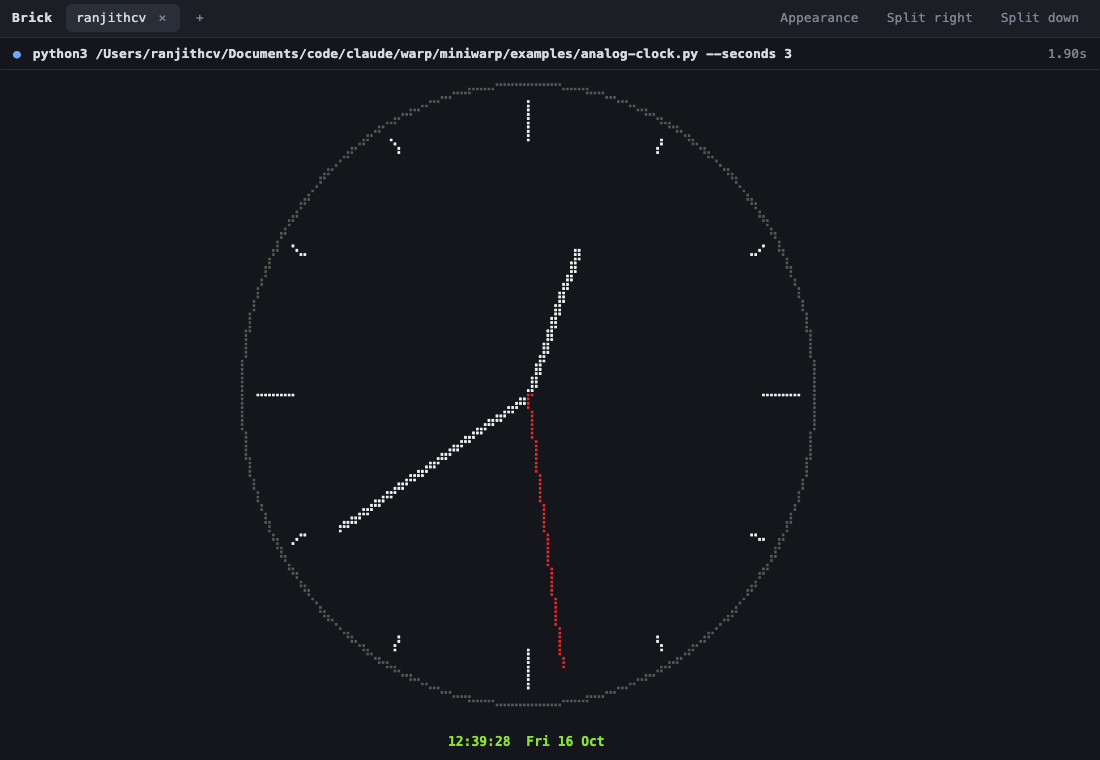
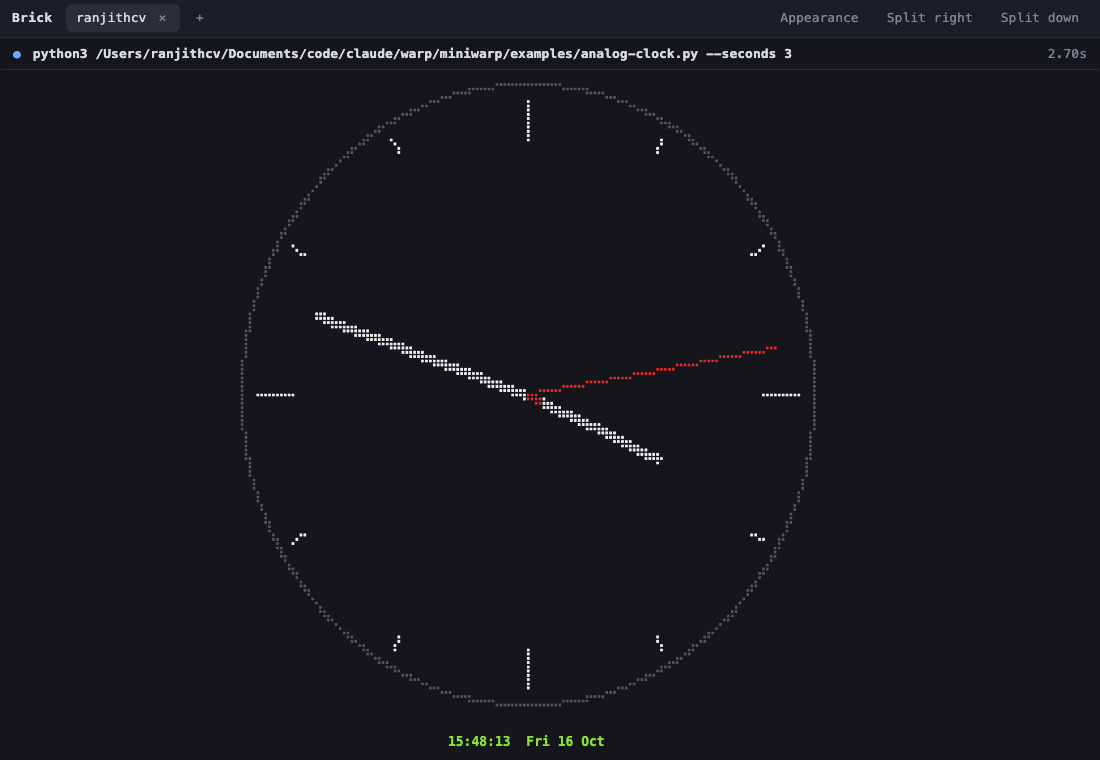
Make full-screen programs (vi, top) opaque over translucent panes
The overlay used the translucent pane background, so earlier blocks and the
wallpaper showed through. It now paints the pane's solid base colour. Test added.

Claude-Session: https://claude.ai/code/session_01Ut6PtFk7S6CzZVp874pcWK

diff --git a/test/glass.test.js b/test/glass.test.js
@@ -71,6 +71,17 @@ t('one opacity and one blur slider, five backgrounds, two scopes', async (page) 
   assert.equal(await page.locator('#scope button.on').innerText(), 'Whole tab');
 });
 
+t('a full-screen program (vi, top) is opaque: translucent glass never shows earlier blocks through it', async (page) => {
+  await openPanel(page);
+  await bg(page, 'blend'); await setRange(page, '#opacity', 30);
+  assert.ok(near(await tint(page, 0), 0.3));
+  await page.keyboard.press('Escape');
+  await page.keyboard.type(`printf '\\033[?1049h\\033[Hfullscreen'; sleep 3; printf '\\033[?1049l'`); await page.keyboard.press('Enter');
+  await page.waitForSelector('.block.overlay');
+  const alpha = await page.evaluate(() => { const c = getComputedStyle(document.querySelector('.block.overlay')).backgroundColor; const m = c.match(/[\d.]+/g); return m.length > 3 ? +m[3] : 1; });
+  assert.equal(alpha, 1, 'the overlay background is solid');
+});
+
 t('Blend: three colours, opacity and blur apply to every pane; Solid: one colour; Reset', async (page) => {
   await splitRight(page); await openPanel(page);
   await bg(page, 'blend');

diff --git a/public/style.css b/public/style.css
@@ -92,7 +92,7 @@ body.tabs-right #sidebar.collapsed .tab.hot .tab-name { left: auto; right: calc(
 .block-body { padding: 4px 12px 6px; overflow-x: auto; }
 .block-body.empty { height: 0; padding: 0; overflow: hidden; visibility: hidden; }
 /* Full-screen programs cover their own pane (the pane is the containing block). */
-.block.overlay { position: absolute; inset: 0; z-index: 10; border-radius: 0; border: 0; display: flex; flex-direction: column; background: var(--pane-bg); }
+.block.overlay { position: absolute; inset: 0; z-index: 10; border-radius: 0; border: 0; display: flex; flex-direction: column; background: var(--layer-base, var(--bg)); }
 .block.overlay .block-body { flex: 1; padding: 0; min-height: 0; overflow: hidden; }
 .xterm .xterm-viewport { overflow-y: hidden !important; }
 .block.overlay .xterm-viewport { overflow-y: auto !important; }

diff --git a/VERIFICATION.md b/VERIFICATION.md
@@ -1,6 +1,6 @@
 # Brick verification
 
-Run: `npm test` (Node 22.19, macOS, zsh 5.9, Chrome headless). 114 tests, all passing at time of writing (10 protocol, 11 UI, 13 splits, 9 drag and drop, 15 appearance, 4 capture endpoint, 9 tab bar, 27 Files view and its API, 16 viewer).
+Run: `npm test` (Node 22.19, macOS, zsh 5.9, Chrome headless). 115 tests, all passing at time of writing (10 protocol, 11 UI, 13 splits, 9 drag and drop, 15 appearance, 4 capture endpoint, 9 tab bar, 27 Files view and its API, 16 viewer).
 
 | Scenario | Protocol test (real zsh, no browser) | UI test (headless Chrome) |
 |---|---|---|

diff --git a/README.md b/README.md
@@ -6,7 +6,7 @@ A tiny block-based terminal in the browser. Node backend (a real zsh on a pty vi
 ```
 npm install
 npm start          # prints http://127.0.0.1:4477/?t=<token>
-npm test           # 114 tests: protocol (real zsh), UI, layout, drag and drop, appearance, tab bar, Files view and its API, capture endpoint (headless Chrome)
+npm test           # 115 tests: protocol (real zsh), UI, layout, drag and drop, appearance, tab bar, Files view and its API, capture endpoint (headless Chrome)
 ```
 
 Needs Node 22+, zsh, and (for the UI tests) Google Chrome.
